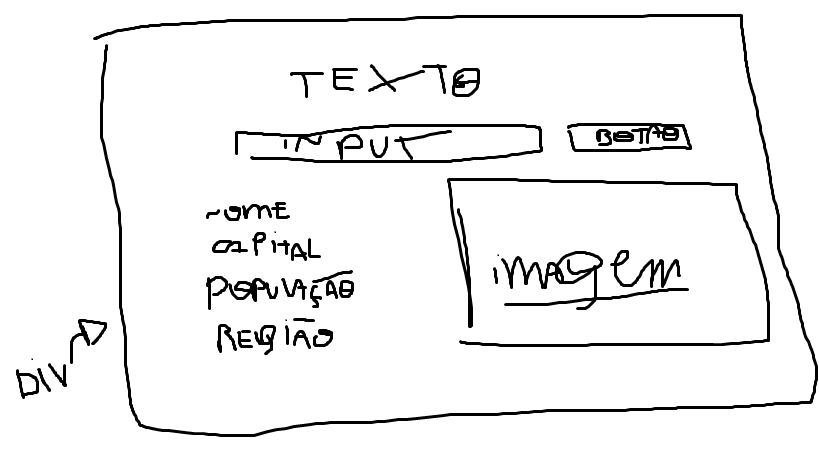
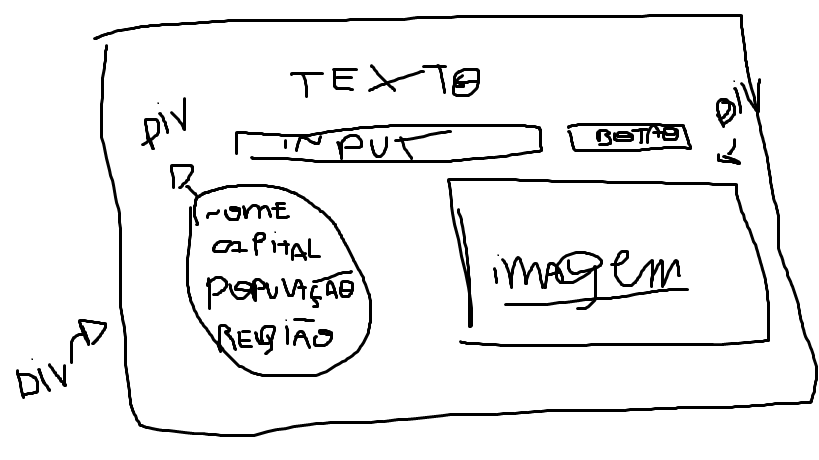
.

diff --git a/script.js b/script.js
@@ -1,14 +1,14 @@
-// https://restcountries.com/v3.1/name/NOME DO PAÍS
-
+const botaoConsultar = document.getElementById("consultar");
 const nomePais = document.getElementById("nomePais");
 
-nomePais.addEventListener("change", (evento) => {
-    let nomePaisUsuario = evento.target.value;
-    buscaPais(nomePaisUsuario);
+botaoConsultar.addEventListener("click", () => {
+    let nomePaisUsuario = nomePais.value.trim(); // pega o texto digitado e remove espaços nas extremidades
+    if (nomePaisUsuario) {
+        buscaPais(nomePaisUsuario);
+    }
 });
 
 async function buscaPais(nomePaisUsuario) {
-
     let erroPais = document.getElementById("erroPais");
     erroPais.innerText = "";
 
@@ -16,26 +16,22 @@ async function buscaPais(nomePaisUsuario) {
         const response = await fetch(`https://restcountries.com/v3.1/name/${nomePaisUsuario}`);
         const dados = await response.json();
 
-        if (dados && dados.length > 0) {  // "dados.length > 0": verifica se o array de países tem pelo menos um elemento 
+        if (response.ok && dados.length > 0) {
             exibeDados(dados[0]);
         } else {
-            erroPais.innerText = "País não encontrado";
+            erroPais.innerText = "País não encontrado.";
         }
-
 
     } catch (error) {
         console.error("Erro ao buscar país:", error);
-        erroPais.innerText = "Erro ao buscar país";
+        erroPais.innerText = "Erro ao buscar país.";
     }
-
 }
-function exibeDados() {
 
-    let nome = document.getElementById("nome")
-    let capital = document.getElementById("capital")
-    let regiao = document.getElementById("regiao")
-    let populacao = document.getElementById("populacao")
-    let imagem = document.getElementById("imagem")
-
-    nome.value = 
+function exibeDados(pais) {
+    document.getElementById("nome").innerText = pais.name.common;
+    document.getElementById("capital").innerText = pais.capital ? pais.capital[0] : "N/A";  // condição ? valor_se_verdadeiro : valor_se_falso
+    document.getElementById("regiao").innerText = pais.region;
+    document.getElementById("populacao").innerText = pais.population.toLocaleString("pt-BR");
+    document.getElementById("imagem").src = pais.flags.svg;
 }

diff --git a/index.html b/index.html
@@ -6,7 +6,6 @@
     <title>Consulta de Países</title>
 
     <style>
-
         body {
             font-family: Arial, sans-serif;
             background-color: #f4f4f4;
@@ -45,14 +44,36 @@
             transform: perspective(1px) translateZ(0);
         }
 
-        p{
-            margin-left: 230px;
+        p {
             font-weight: bold;
-            font-size: 20px;
+            font-size: 23px;
         }
 
-        #resultado {
-            margin-top: 90px;
+       #resultado {
+            display: flex;
+            align-items: flex-start; /* alinha no topo */
+            justify-content: space-between; /* texto à esquerda e imagem à direita */
+            margin-top: 40px;
+            width: 500px;
+            margin-left: auto;
+            margin-right: auto;
+        }
+
+        #dados {
+            flex: 1; /* ocupa o espaço da esquerda */
+        }
+
+        #imagem {
+            width: 120px;
+            height: auto;
+            border: 1px solid #ccc;
+            border-radius: 5px;
+        }
+
+
+        #erroPais {
+            color: red;
+            font-weight: bold;
         }
     </style>
 </head>
@@ -60,19 +81,21 @@
     <div class="container">
         <h1>Digite o nome do País desejado</h1>
         <input type="text" id="nomePais" name="country" required>
-
         <button id="consultar">Consultar</button>
-       
+        <p id="erroPais"></p>
     </div>
 
     <div id="resultado">
+    <div id="dados">
         <p>Nome: <span id="nome"></span></p>
         <p>Capital: <span id="capital"></span></p>
         <p>Região: <span id="regiao"></span></p>
         <p>População: <span id="populacao"></span></p>
-        <p>Imagem: <span id="imagem"></span></p>
     </div>
+    <img id="imagem" alt="Bandeira do país">
+</div>
+    
 
-     <script src="script.js"></script>
+    <script src="script.js"></script>
 </body>
 </html>
